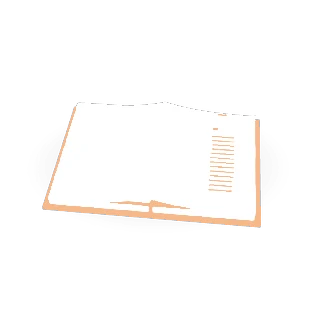
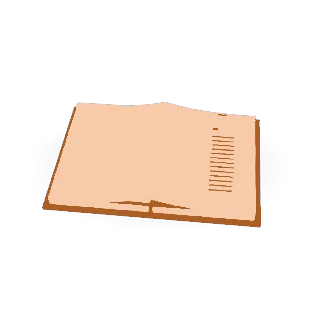
Cabecera de Aprendizaje: banda naranja medio plana, libro en dos tonos y número blanco
La franja clara de arriba se apaga mientras se ve la banda (lavaba el
naranja y parecía un degradado); vuelve al bajar.

Claude-Session: https://claude.ai/code/session_017q9eB3jcU4JAqbgUHmF9x1

Changed region(s): [[0.1212, 0.303, 0.7879, 0.697]]

diff --git a/index.html.html b/index.html.html
@@ -7879,6 +7879,11 @@ html.em-v2 .pod-lb-hint{font-size:11px;}
   -webkit-mask-image:linear-gradient(180deg,#000 0%,#000 55%,transparent 100%);
   mask-image:linear-gradient(180deg,#000 0%,#000 55%,transparent 100%);
 }
+/* Mientras se ve la banda de color de la cabecera, la franja se apaga: no
+   hay nada que desenfocar y lavaba el naranja, que se veía degradado y no
+   plano como en las otras secciones. */
+.em-top-fade{transition:opacity .2s ease;}
+body.em-banda-arriba .em-top-fade{opacity:0 !important;}
 /* El botón de volver, siempre por encima de la franja. */
 .sub-back,.hub-back-link,.mg-back{z-index:70 !important;}
 
@@ -10002,7 +10007,7 @@ html.em-v2[data-v2lect="lecturas"] .v2-lect { padding-top:0; }
 .v2-cab-manchas i:nth-child(2) { width:80vw; height:80vw; max-width:440px; max-height:440px; bottom:-22%; left:-34%; background:radial-gradient(closest-side, #FBE0CB, rgba(251,224,203,0)); }
 .v2-cab-manchas i:nth-child(3) { width:58vw; height:58vw; max-width:320px; max-height:320px; bottom:-6%; right:-20%; opacity:.75; background:radial-gradient(closest-side, #A9C6EE, rgba(169,198,238,0)); }
 .v2-cab-banda { position:absolute; top:0; left:0; right:0; height:calc(64px + env(safe-area-inset-top, 0px) + 14px); pointer-events:none;
-  background:linear-gradient(180deg, #F7CFAF 0%, #FADFCA 100%);
+  background:linear-gradient(180deg, #F2A66B 0%, #F3AD78 100%);
   -webkit-mask-image:radial-gradient(ellipse 60% 18px at 50% 100%, transparent 97%, #000 100%); mask-image:radial-gradient(ellipse 60% 18px at 50% 100%, transparent 97%, #000 100%); }
 .v2-cab-ilus { position:absolute; inset:0; overflow:hidden; pointer-events:none; }
 /* El libro en su espacio (del alto del aro, a su derecha), igual que en la app. */
@@ -10089,7 +10094,7 @@ html.em-v2[data-v2lect="lecturas"] .v2-lect { padding-top:0; }
 .v2-cab.con-aro .v2-cab-ilus .v2-aro-dentro .v2-kb img { position:absolute; left:-9px; top:-17.8px; width:69.6px; height:69.6px; display:block; transition:opacity .18s ease-out; }
 /* El alto justo: el blob, su pie y 8 px hasta los botones. */
 .v2-cab.curva.con-aro .v2-cab-txt { min-height:114px; }
-.v2-cab-aro .v2-aro-dentro b { position:static; display:block; margin-top:1px; font-size:18px; font-weight:800; color:#1D1D1F; letter-spacing:-0.02em; line-height:1; font-variant-numeric:tabular-nums; }
+.v2-cab-aro .v2-aro-dentro b { position:static; display:block; margin-top:1px; font-size:18px; font-weight:800; color:#FFFFFF; letter-spacing:-0.02em; line-height:1; font-variant-numeric:tabular-nums; }
 .v2-cab-aro > span { margin-top:8px; font-size:11.5px; font-weight:600; color:#6B6B6B; line-height:1.25; }
 /* Al tocar el aro se explica qué mide (como los aros de la app). */
 .v2-cab-aro { pointer-events:auto; cursor:pointer; -webkit-tap-highlight-color:transparent; }
@@ -10400,6 +10405,26 @@ html.em-v2 #s-onboarding .hub-back-link { display: none !important; }
   document.addEventListener('DOMContentLoaded', emFadeSync);
   setTimeout(emFadeSync, 400);
   window.emFadeSync = emFadeSync;
+  // ¿Hay una banda de cabecera visible bajo la franja de arriba?
+  function emBandaSync(){
+    try {
+      var hay = false, bs = document.querySelectorAll('.v2-cab-banda');
+      for (var i = 0; i < bs.length; i++) {
+        var r = bs[i].getBoundingClientRect();
+        if (r.width > 0 && r.bottom > 24 && r.top <= 0) { hay = true; break; }
+      }
+      document.body.classList.toggle('em-banda-arriba', hay);
+    } catch(e){}
+  }
+  var emBandaPend = false;
+  function emBandaLuego(){ if (emBandaPend) return; emBandaPend = true; requestAnimationFrame(function(){ emBandaPend = false; emBandaSync(); }); }
+  document.addEventListener('scroll', emBandaLuego, { passive: true, capture: true });
+  window.addEventListener('resize', emBandaLuego);
+  document.addEventListener('DOMContentLoaded', function(){
+    emBandaSync();
+    try { new MutationObserver(emBandaLuego).observe(document.body, { childList: true, subtree: true, attributes: true, attributeFilter: ['class'] }); } catch(e){}
+  });
+  setTimeout(emBandaSync, 400);
 })();
 </script>
 
